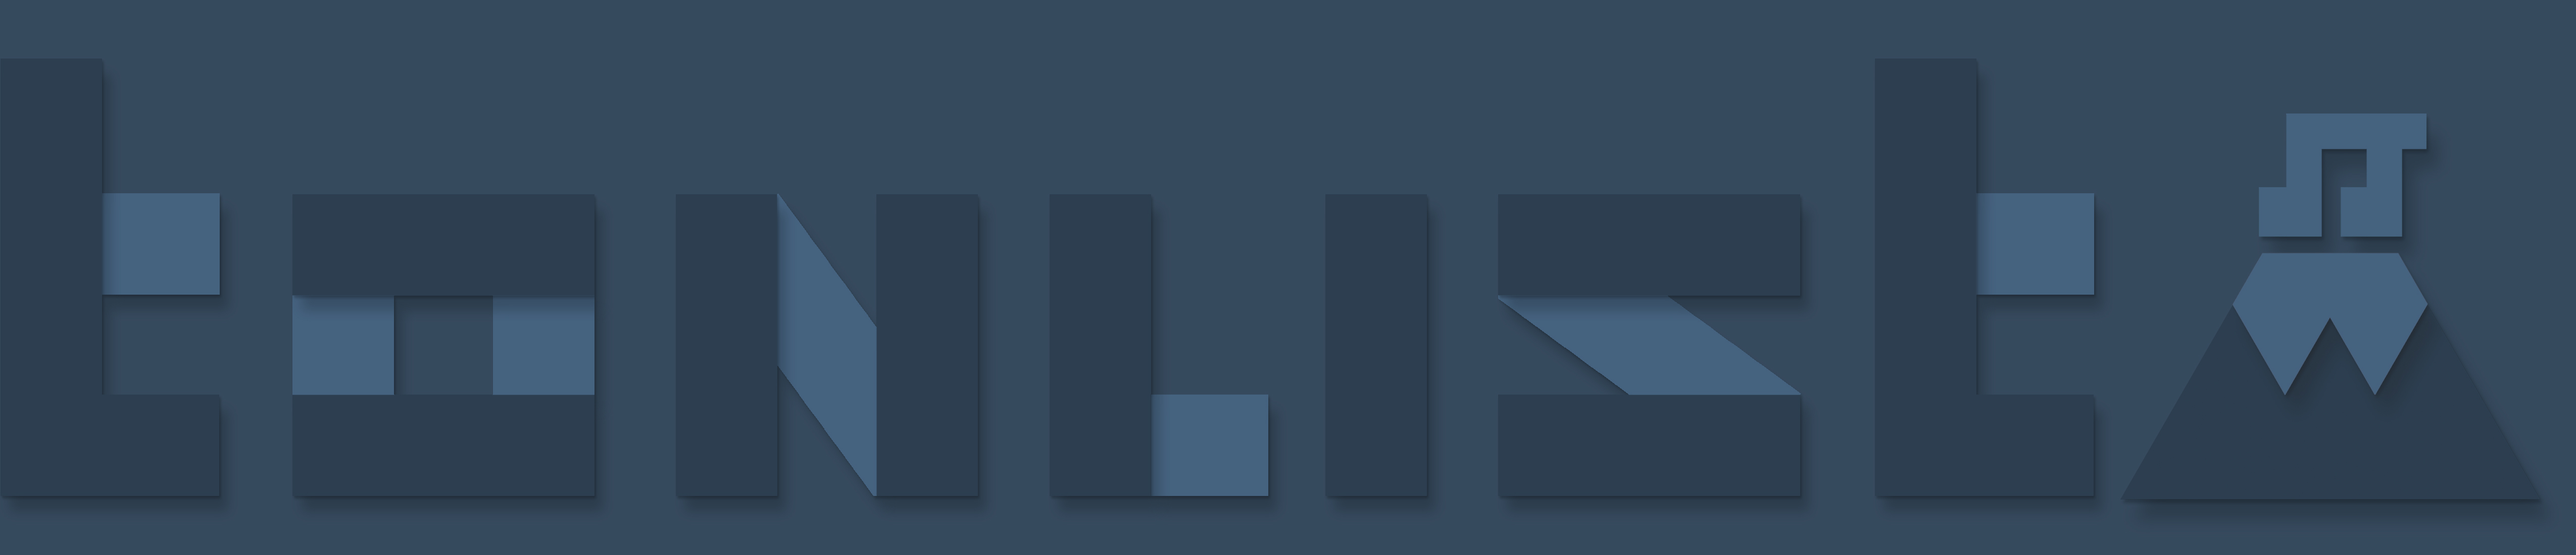
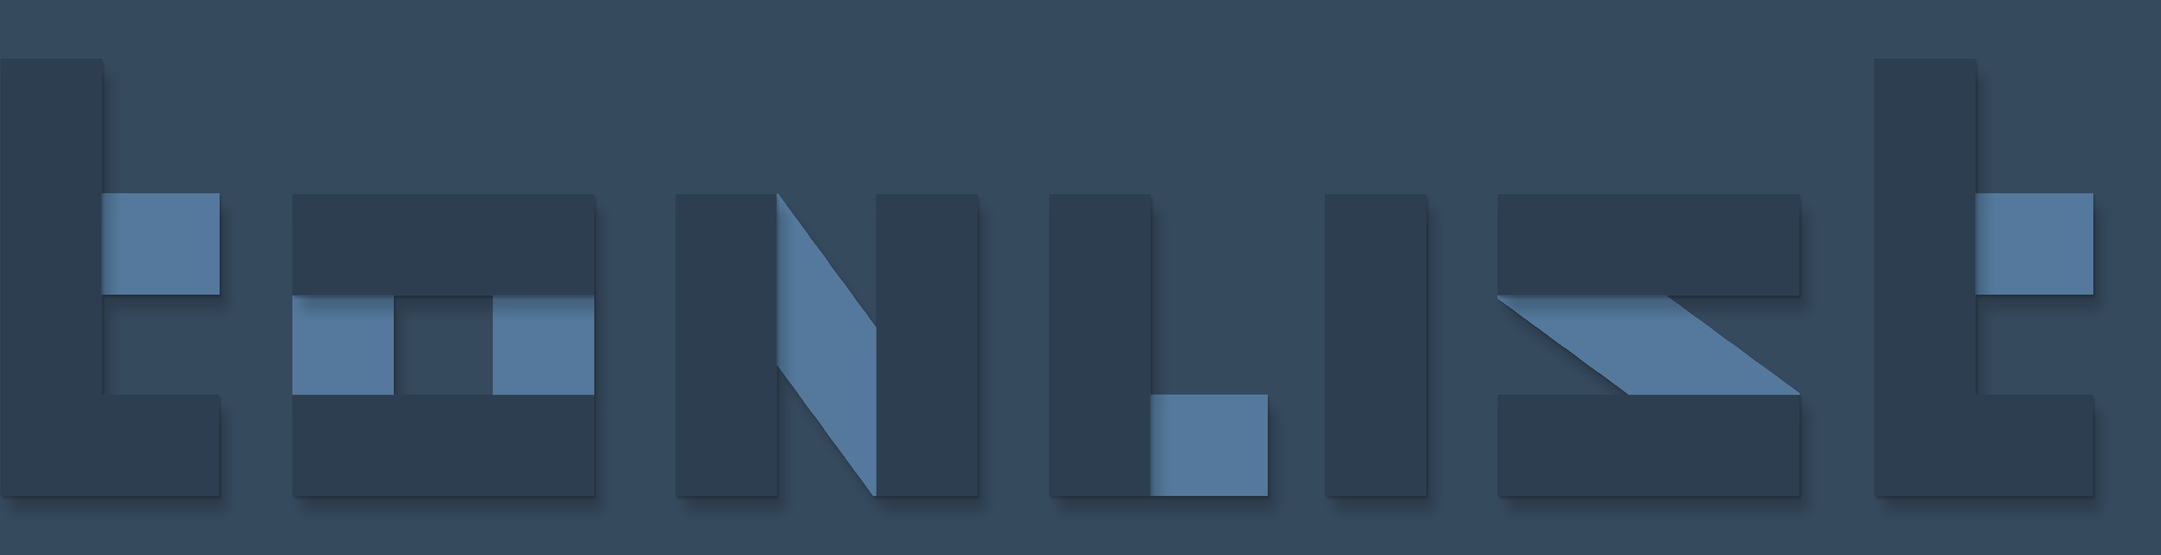
better-colour

diff --git a/client/style.css b/client/style.css
@@ -13,7 +13,7 @@
   padding: 10px;
   background-color: #2c3e50;
   box-shadow: 0 10px 20px rgba(0,0,0,0.19), 0 6px 6px rgba(0,0,0,0.23);
-  color: #4e6e8f;
+  color: #54799c;
 }
 
 /* mobile && tablets */
@@ -45,7 +45,7 @@
 /* Medium Devices, Desktops */
 @media only screen and (min-width : 992px) {
   :local(.headerimage) {
-    width: 80%;
+    width: 67%;
     margin-top:15px;
   }
   :local(.mobilebutton) {
@@ -56,7 +56,7 @@
 /* large screens */
 @media only screen and (min-width : 1200px){
   :local(.headerimage) {
-    width: 80%;
+    width: 67%;
     margin-top:15px;
   }
   :local(.mobilebutton) {
